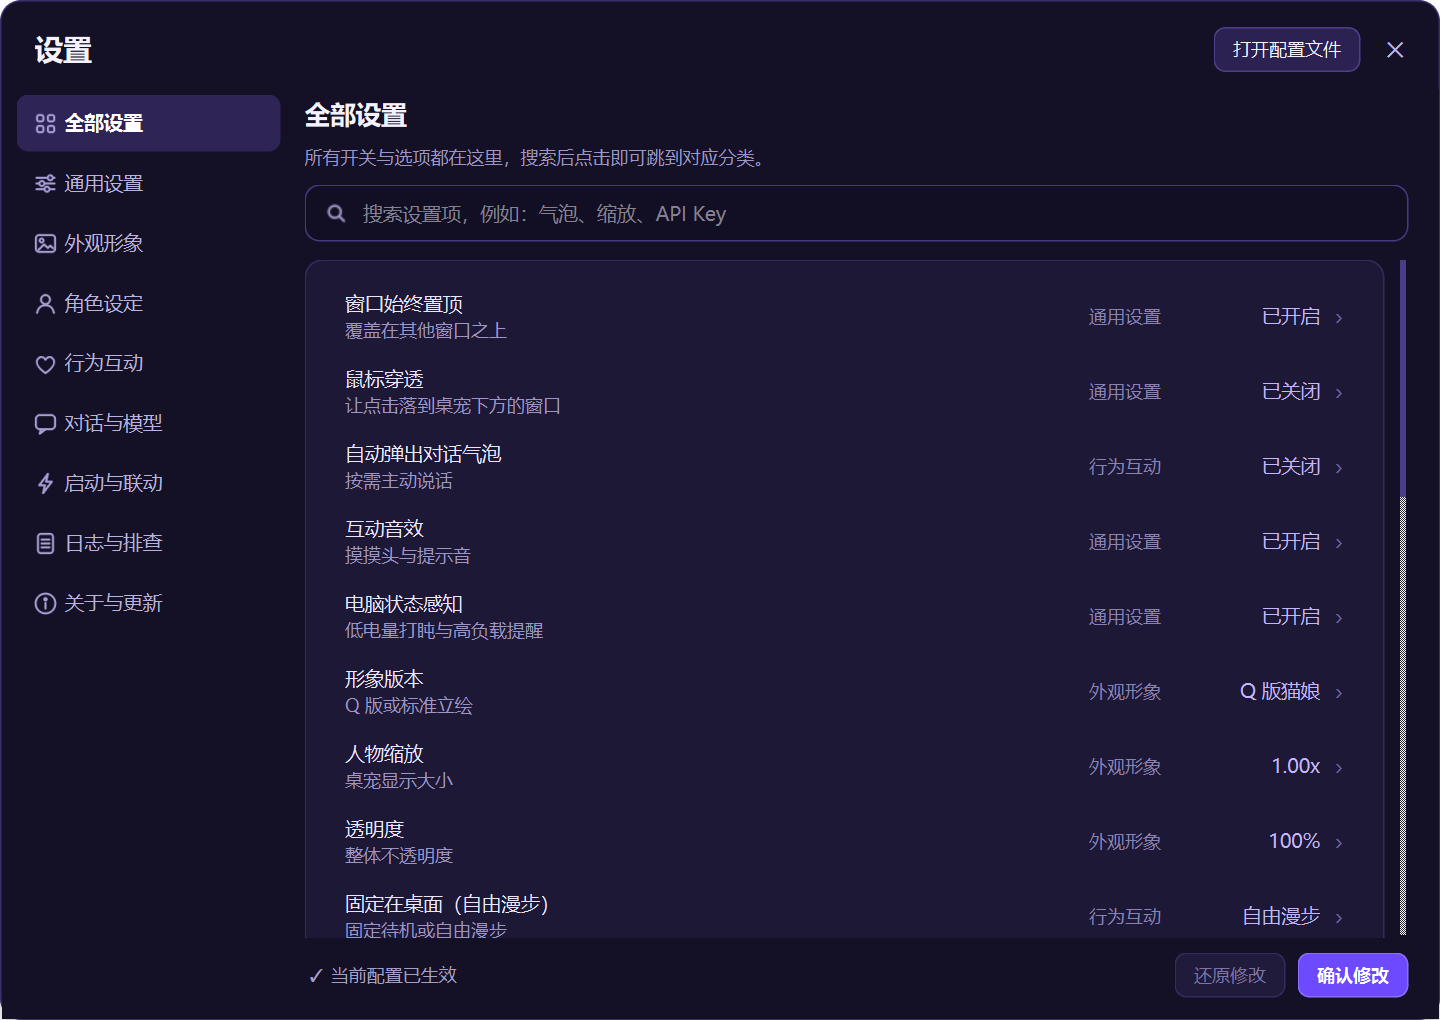
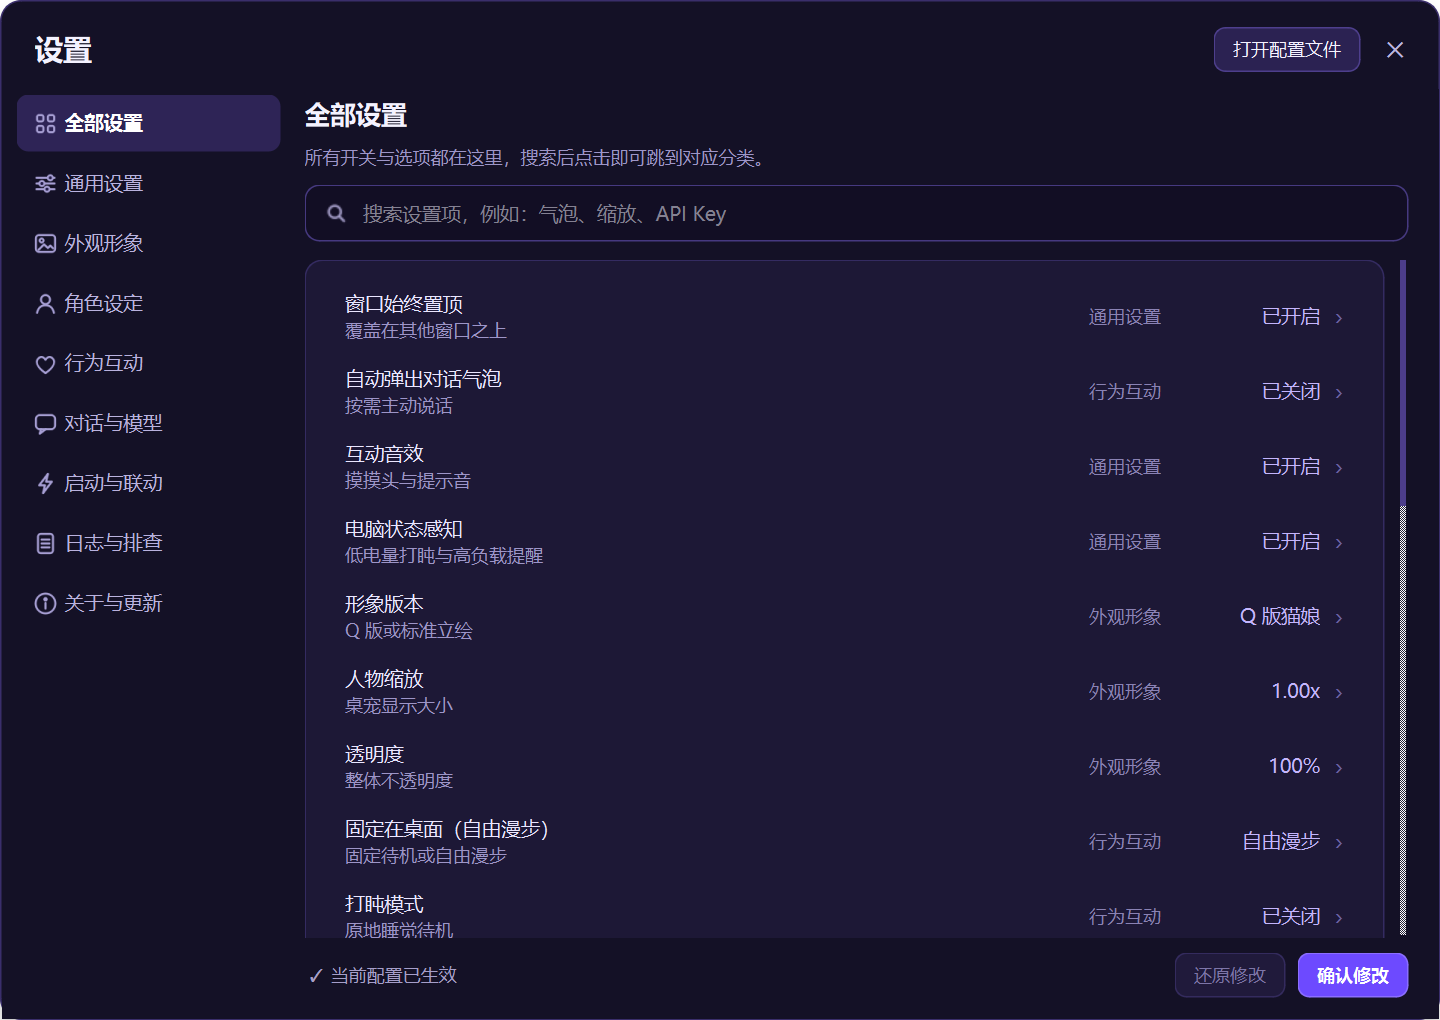
删除鼠标穿透设置
- 移除设置项、配置字段与 Win32 穿透样式调用，桌宠始终保持可交互
- 去掉相关提示与测试，更新设置预览图

diff --git a/views/pet_window.py b/views/pet_window.py
@@ -87,7 +87,6 @@ from services.chat_history_service import ChatHistoryService
 from services.chat_sync_state import ChatSyncState
 from services.shared_menu import MENU_SEPARATOR, populate_shared_menu
 from services.sprite_manager import SpriteManager, WalkRigAssets
-from services.win32_ipc import set_click_through_ex_style
 from themes import STARLIGHT_MENU_QSS
 
 
@@ -546,7 +545,6 @@ class PetWindow(QWidget):
         # Hover & bubble/chat state
         self._is_hovering = False
         self._is_bubble_hovered = False
-        self._click_through_noticed = bool(settings.click_through)
         self._suppress_loaded_default_greeting = False
         self._is_forced_bubble_active = False
         self._is_chat_open = False
@@ -1297,7 +1295,6 @@ class PetWindow(QWidget):
 
         self._update_dock_alignment()
         self._apply_win32_extended_styles()
-        self._notify_click_through_state()
         self._refresh_sprite_visual()
         self._sync_chat_controls()
         self._relayout_stage_top()
@@ -1309,22 +1306,8 @@ class PetWindow(QWidget):
             return
         _ensure_tool_window_ex_style(hwnd)
         _apply_win32_topmost(hwnd, bool(self._settings.always_on_top))
-        set_click_through_ex_style(hwnd, bool(self._settings.click_through))
         self._sync_bubble_window_styles()
         self.visual_bounds_changed.emit()
-
-    def _notify_click_through_state(self) -> None:
-        # 开启穿透后桌宠不再接收鼠标事件，先给一次明确提示，避免以为程序卡死
-        enabled = bool(self._settings.click_through)
-        if enabled == self._click_through_noticed:
-            return
-        self._click_through_noticed = enabled
-        if enabled:
-            self.show_bubble(
-                "已开启鼠标穿透，桌宠暂时点不到啦；可在托盘菜单 → 设置里关闭喵～",
-                6.0,
-                force=True,
-            )
 
     def _sync_bubble_window_styles(self) -> None:
         if not self._speech_bubble.isVisible():
@@ -1334,10 +1317,6 @@ class PetWindow(QWidget):
             return
         _ensure_tool_window_ex_style(bubble_hwnd)
         _apply_win32_topmost(bubble_hwnd, bool(self._settings.always_on_top))
-        set_click_through_ex_style(
-            bubble_hwnd,
-            bool(self._settings.click_through) and not self._is_chat_open,
-        )
 
     def _update_dock_alignment(self) -> None:
         # 贴边状态变化后气泡需要重新贴近精灵摆放
@@ -1921,9 +1900,8 @@ class PetWindow(QWidget):
     def _paint_stage(self, painter: QPainter) -> None:
         sprite_rect = self._get_local_sprite_rect()
 
-        # 非穿透模式下在角色有效区域填充 alpha=1 底色，保证发丝镂空区也可正常拖拽
-        if not self._settings.click_through:
-            painter.fillRect(sprite_rect, QColor(0, 0, 0, 1))
+        # 在角色有效区域填充 alpha=1 底色，保证发丝镂空区也可正常拖拽
+        painter.fillRect(sprite_rect, QColor(0, 0, 0, 1))
 
         if self._settings.docked_side == DockSide.LEFT:
             pivot_x = sprite_rect.left()

diff --git a/views/settings_window.py b/views/settings_window.py
@@ -661,8 +661,6 @@ class SettingsWindow(QWidget):
         specs = [
             (self._PAGE_GENERAL, "窗口始终置顶", "覆盖在其他窗口之上", "通用设置",
              lambda: self._on_off(self._settings.always_on_top)),
-            (self._PAGE_GENERAL, "鼠标穿透", "让点击落到桌宠下方的窗口", "通用设置",
-             lambda: self._on_off(self._settings.click_through)),
             (self._PAGE_BEHAVIOR, "自动弹出对话气泡", "按需主动说话", "行为互动",
              lambda: self._on_off(self._settings.show_speech_bubble)),
             (self._PAGE_GENERAL, "互动音效", "摸摸头与提示音", "通用设置",
@@ -768,17 +766,11 @@ class SettingsWindow(QWidget):
     # ---- 通用设置 ----
 
     def _build_general_page(self) -> QWidget:
-        scroll, layout = self._new_page("通用设置", "窗口层级与鼠标行为的全局开关。")
+        scroll, layout = self._new_page("通用设置", "窗口层级与显示的全局开关。")
 
         card = _Card(layout, "窗口")
         self._chk_topmost = self._make_switch()
         card.add_row(self._chk_topmost, "窗口始终置顶", "覆盖在其他应用窗口之上，方便随时看到 Gemini 娘")
-        self._chk_click_through = self._make_switch()
-        card.add_row(
-            self._chk_click_through,
-            "鼠标穿透",
-            "开启后桌宠不再响应鼠标，可在托盘的「设置」里关闭；仅当前会话有效",
-        )
 
         card = _Card(layout, "互动反馈")
         self._chk_sound = self._make_switch()
@@ -1164,7 +1156,6 @@ class SettingsWindow(QWidget):
             self._opacity_val_lbl.setText(f"{int(round(s.opacity * 100))}%")
 
             self._chk_topmost.setChecked(s.always_on_top)
-            self._chk_click_through.setChecked(s.click_through)
             self._chk_bubble.setChecked(s.show_speech_bubble)
             self._chk_sound.setChecked(s.sound_enabled)
             self._chk_sysmon.setChecked(s.system_monitor_enabled)
@@ -1238,7 +1229,6 @@ class SettingsWindow(QWidget):
         s.opacity = max(0.4, min(1.0, self._opacity_slider.value() / 100.0))
 
         s.always_on_top = self._chk_topmost.isChecked()
-        s.click_through = self._chk_click_through.isChecked()
         s.show_speech_bubble = self._chk_bubble.isChecked()
         s.sound_enabled = self._chk_sound.isChecked()
         s.system_monitor_enabled = self._chk_sysmon.isChecked()

diff --git a/services/settings_service.py b/services/settings_service.py
@@ -153,7 +153,6 @@ _SETTINGS_SCHEMA: tuple[_SettingFieldSpec, ...] = (
     _SettingFieldSpec("edge_dock_enabled", "behavior", "edge_dock_enabled", _parse_bool, bool),
     _SettingFieldSpec("sound_enabled", "behavior", "sound_enabled", _parse_bool, bool),
     _SettingFieldSpec("particles_enabled", "behavior", "particles_enabled", _parse_bool, bool),
-    _SettingFieldSpec("click_through", "behavior", "click_through", _parse_bool, bool),
     _SettingFieldSpec("system_monitor_enabled", "behavior", "system_monitor_enabled", _parse_bool, bool),
     _SettingFieldSpec("follow_antigravity", "behavior", "follow_antigravity", _parse_bool, bool),
     _SettingFieldSpec("follow_gemini_app", "behavior", "follow_gemini_app", _parse_bool, bool),
@@ -257,9 +256,6 @@ class SettingsService:
                 pass
         settings.gemini_model = normalize_gemini_model(settings.gemini_model)
         settings.thinking_level = normalize_thinking_level(settings.thinking_level)
-        # 鼠标穿透只在当前会话内有效：若跨启动保留，桌宠会连自己的鼠标事件一起吞掉，
-        # 下次启动就无法拖动或右键，只能从托盘绕回来。
-        settings.click_through = False
         return settings
 
     def save(self, settings: PetSettings) -> None:

diff --git a/tests/test_chat_and_settings.py b/tests/test_chat_and_settings.py
@@ -290,14 +290,14 @@ class TestChatAndSettings(unittest.TestCase):
             try:
                 win.show()
                 app.processEvents()
-                self.assertEqual(len(win._summary_rows), 25)
+                self.assertEqual(len(win._summary_rows), 24)
                 self.assertTrue(all(not row.isHidden() for row, _text, _getter in win._summary_rows))
 
                 win._search_edit.setText("气泡")
                 app.processEvents()
                 matched = [row for row, _text, _getter in win._summary_rows if not row.isHidden()]
                 self.assertTrue(matched)
-                self.assertLess(len(matched), 25)
+                self.assertLess(len(matched), 24)
                 self.assertFalse(win._summary_empty.isVisible())
 
                 win._search_edit.setText("不存在的设置项")
@@ -338,7 +338,7 @@ class TestChatAndSettings(unittest.TestCase):
             try:
                 win.show()
                 app.processEvents()
-                self.assertEqual(len(win._summary_rows), 25)
+                self.assertEqual(len(win._summary_rows), 24)
                 for (row, _text, _getter), key in zip(
                     win._summary_rows[-3:], ("editor", "profile", "update")
                 ):

diff --git a/services/win32_ipc.py b/services/win32_ipc.py
@@ -28,8 +28,6 @@ _WAIT_TIMEOUT = 0x00000102
 _WAIT_FAILED = 0xFFFFFFFF
 
 _GWL_EXSTYLE = -20
-_WS_EX_LAYERED = 0x00080000
-_WS_EX_TRANSPARENT = 0x00000020
 
 _HWND_TOPMOST = -1
 _HWND_NOTOPMOST = -2
@@ -195,22 +193,6 @@ def wait_any_events(events: Iterable[Win32Event], timeout_ms: int) -> int:
 def ensure_app_user_model_id(app_id: str = "GeminiDesktopPet") -> None:
     try:
         _shell32.SetCurrentProcessExplicitAppUserModelID(app_id)
-    except Exception:
-        pass
-
-
-def set_click_through_ex_style(hwnd: int, enable: bool) -> None:
-    """切换 Win32 窗口扩展样式中的 WS_EX_TRANSPARENT，实现真实鼠标穿透。"""
-    if not hwnd:
-        return
-    try:
-        ex_style = _user32.GetWindowLongPtrW(hwnd, _GWL_EXSTYLE)
-        if enable:
-            _user32.SetWindowLongPtrW(
-                hwnd, _GWL_EXSTYLE, ex_style | _WS_EX_LAYERED | _WS_EX_TRANSPARENT
-            )
-        else:
-            _user32.SetWindowLongPtrW(hwnd, _GWL_EXSTYLE, ex_style & ~_WS_EX_TRANSPARENT)
     except Exception:
         pass
 

diff --git a/tests/test_settings_and_version.py b/tests/test_settings_and_version.py
@@ -41,15 +41,6 @@ class TestSettingsAndProjectConfig(unittest.TestCase):
         self.assertEqual(resolve_effective_thinking_level("gemini-3.1-flash-lite", "xhigh"), "auto")
         self.assertEqual(resolve_effective_thinking_level("gemini-4-hydrogen", "xhigh"), "xhigh")
 
-    def test_click_through_only_lasts_current_session(self) -> None:
-        """鼠标穿透不能跨启动保留，否则桌宠下次启动无法拖动或右键。"""
-        with tempfile.TemporaryDirectory() as tmp:
-            svc = SettingsService(tmp)
-            svc.save(PetSettings(click_through=True))
-            raw_json = json.loads(svc.settings_path.read_text(encoding="utf-8"))
-            self.assertTrue(raw_json["behavior"]["click_through"])
-            self.assertFalse(svc.load().click_through)
-
     def test_settings_json_roundtrip_and_migration(self) -> None:
         with tempfile.TemporaryDirectory() as tmp:
             svc = SettingsService(tmp)

diff --git a/tests/test_settings_and_autostart_menu.py b/tests/test_settings_and_autostart_menu.py
@@ -188,7 +188,7 @@ class TestSettingsAndAutostartMenu(unittest.TestCase):
                     self.assertTrue(hasattr(win, "_chk_autostart"))
                     self.assertFalse(win._chk_autostart.isChecked())
                     self.assertIsNotNone(win._search_edit)
-                    self.assertEqual(len(win._summary_rows), 25)
+                    self.assertEqual(len(win._summary_rows), 24)
 
                     win._chk_autostart.setChecked(True)
                     self.assertTrue(win.has_unsaved_changes())

diff --git a/models/pet_settings.py b/models/pet_settings.py
@@ -191,7 +191,6 @@ class PetSettings:
     edge_dock_enabled: bool = True
     sound_enabled: bool = True
     particles_enabled: bool = True
-    click_through: bool = False
     system_monitor_enabled: bool = True
     show_speech_bubble: bool = False
     follow_antigravity: bool = True
